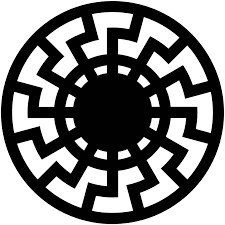
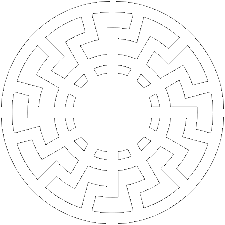
lassabban porog

diff --git a/index.html b/index.html
@@ -55,7 +55,7 @@
             fejlődtek, amelyek a rasszista és felsőbbrendűségi ideológiákat próbálják igazolni és állandósítani a
             spirituális megvilágosodás leple alatt.</p>
         </div>
-        <img src="images/black-sun.png" alt="Fekete nap" id="black-sun">
+        <img src="images/black-sun-2.png" alt="Fekete nap" id="black-sun">
       </article>
 
       <article class="article">

diff --git a/style.scss b/style.scss
@@ -107,7 +107,7 @@ body {
     background-color: $background-color;
     background-image: $background-image;
     background-size: 50px;
-    // font-family: Canterbury;
+    font-family: Canterbury;
 }
 
 body.noscroll {
@@ -203,7 +203,7 @@ header {
 }
 
 #black-sun {
-    animation: spin-black-sun 2s linear infinite;
+    animation: spin-black-sun 3s linear infinite;
 }
 
 /* Main Content Section */

diff --git a/style.css b/style.css
@@ -73,6 +73,7 @@ body {
   background-color: #f4f4f4;
   background-image: url("images/swastika.png");
   background-size: 50px;
+  font-family: Canterbury;
 }
 
 body.noscroll {
@@ -148,7 +149,7 @@ header nav .menu a:last-child {
 }
 
 #black-sun {
-  animation: spin-black-sun 2s linear infinite;
+  animation: spin-black-sun 3s linear infinite;
 }
 
 /* Main Content Section */
